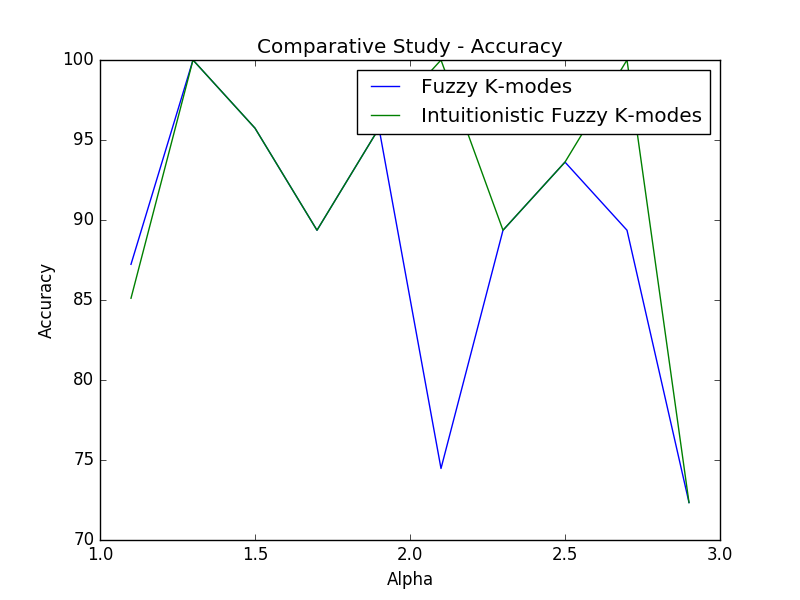
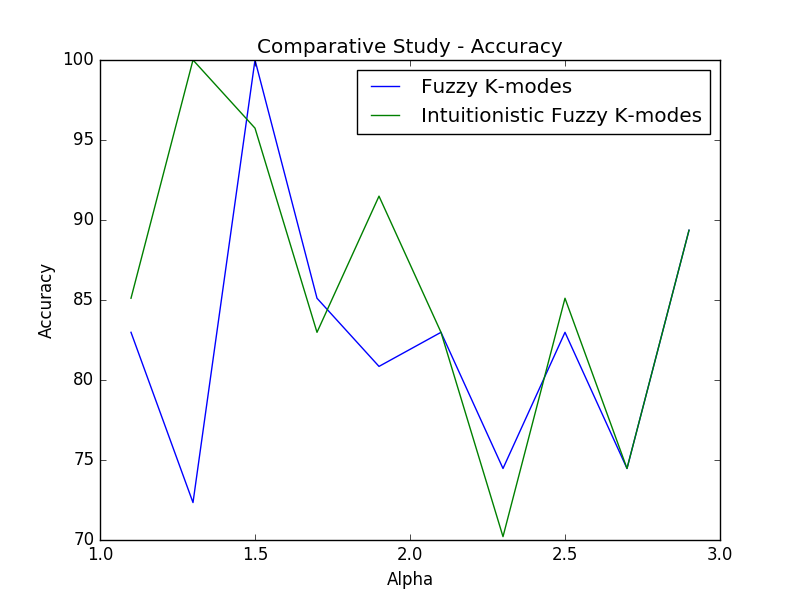
Performed few studies

diff --git a/intuition_yager.py b/intuition_yager.py
@@ -96,7 +96,7 @@ def calculate_partition_matrix(Z, X, alpha):
                 if not flag:
                     W[l][i] = 1 / sum
 
-    delta = 3.2
+    delta = 1.7
 
     K = np.copy(W)
 
@@ -219,10 +219,10 @@ def run(n_iter=100, n_clusters=4, alpha=1.1, centroids=None, X=None, Y=None):
         y = copy.deepcopy(Y)
     else:
         # Importing data from data set and reformatting into attributes and labels
-        # x = np.genfromtxt('soybean.csv', dtype=str, delimiter=',')[:, :-1]
-        # y = np.genfromtxt('soybean.csv', dtype=str, delimiter=',', usecols=(21,))
-        x = np.genfromtxt('zoo.csv', dtype=str, delimiter=',')[:, :-1]
-        y = np.genfromtxt('zoo.csv', dtype=str, delimiter=',', usecols=(17,))
+        x = np.genfromtxt('soybean.csv', dtype=str, delimiter=',')[:, :-1]
+        y = np.genfromtxt('soybean.csv', dtype=str, delimiter=',', usecols=(21,))
+        # x = np.genfromtxt('zoo.csv', dtype=str, delimiter=',')[:, :-1]
+        # y = np.genfromtxt('zoo.csv', dtype=str, delimiter=',', usecols=(17,))
 
     comp_time = []
     cost = []
@@ -251,7 +251,7 @@ if __name__ == "__main__":
     n_iter = 100
 
     # Number of clusters
-    n_clusters = 7
+    n_clusters = 4
 
     # Weighing exponent
     alpha = 1.1

diff --git a/fuzzy_kmodes.py b/fuzzy_kmodes.py
@@ -249,7 +249,7 @@ if __name__ == "__main__":
     n_iter = 100
 
     # Number of clusters
-    n_clusters = 7
+    n_clusters = 4
 
     # Weighing exponent
     alpha = 1.1
